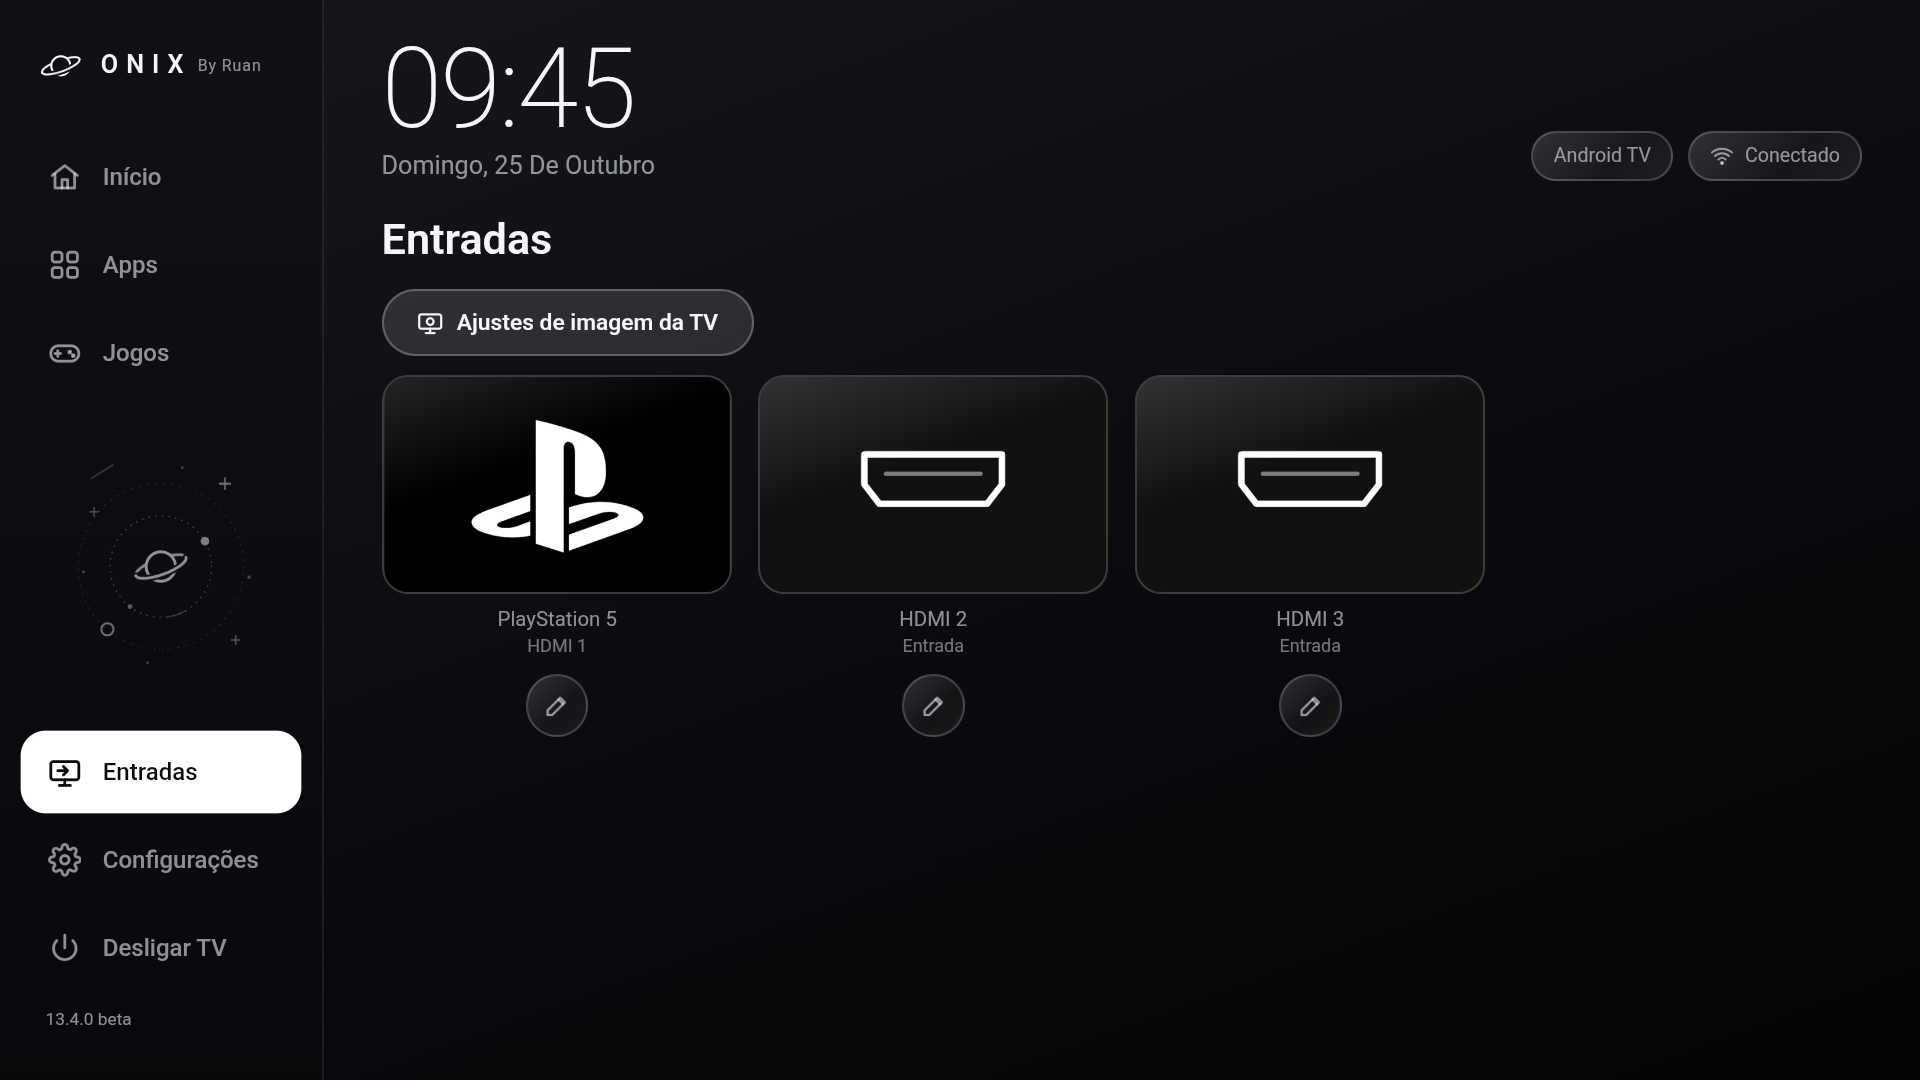
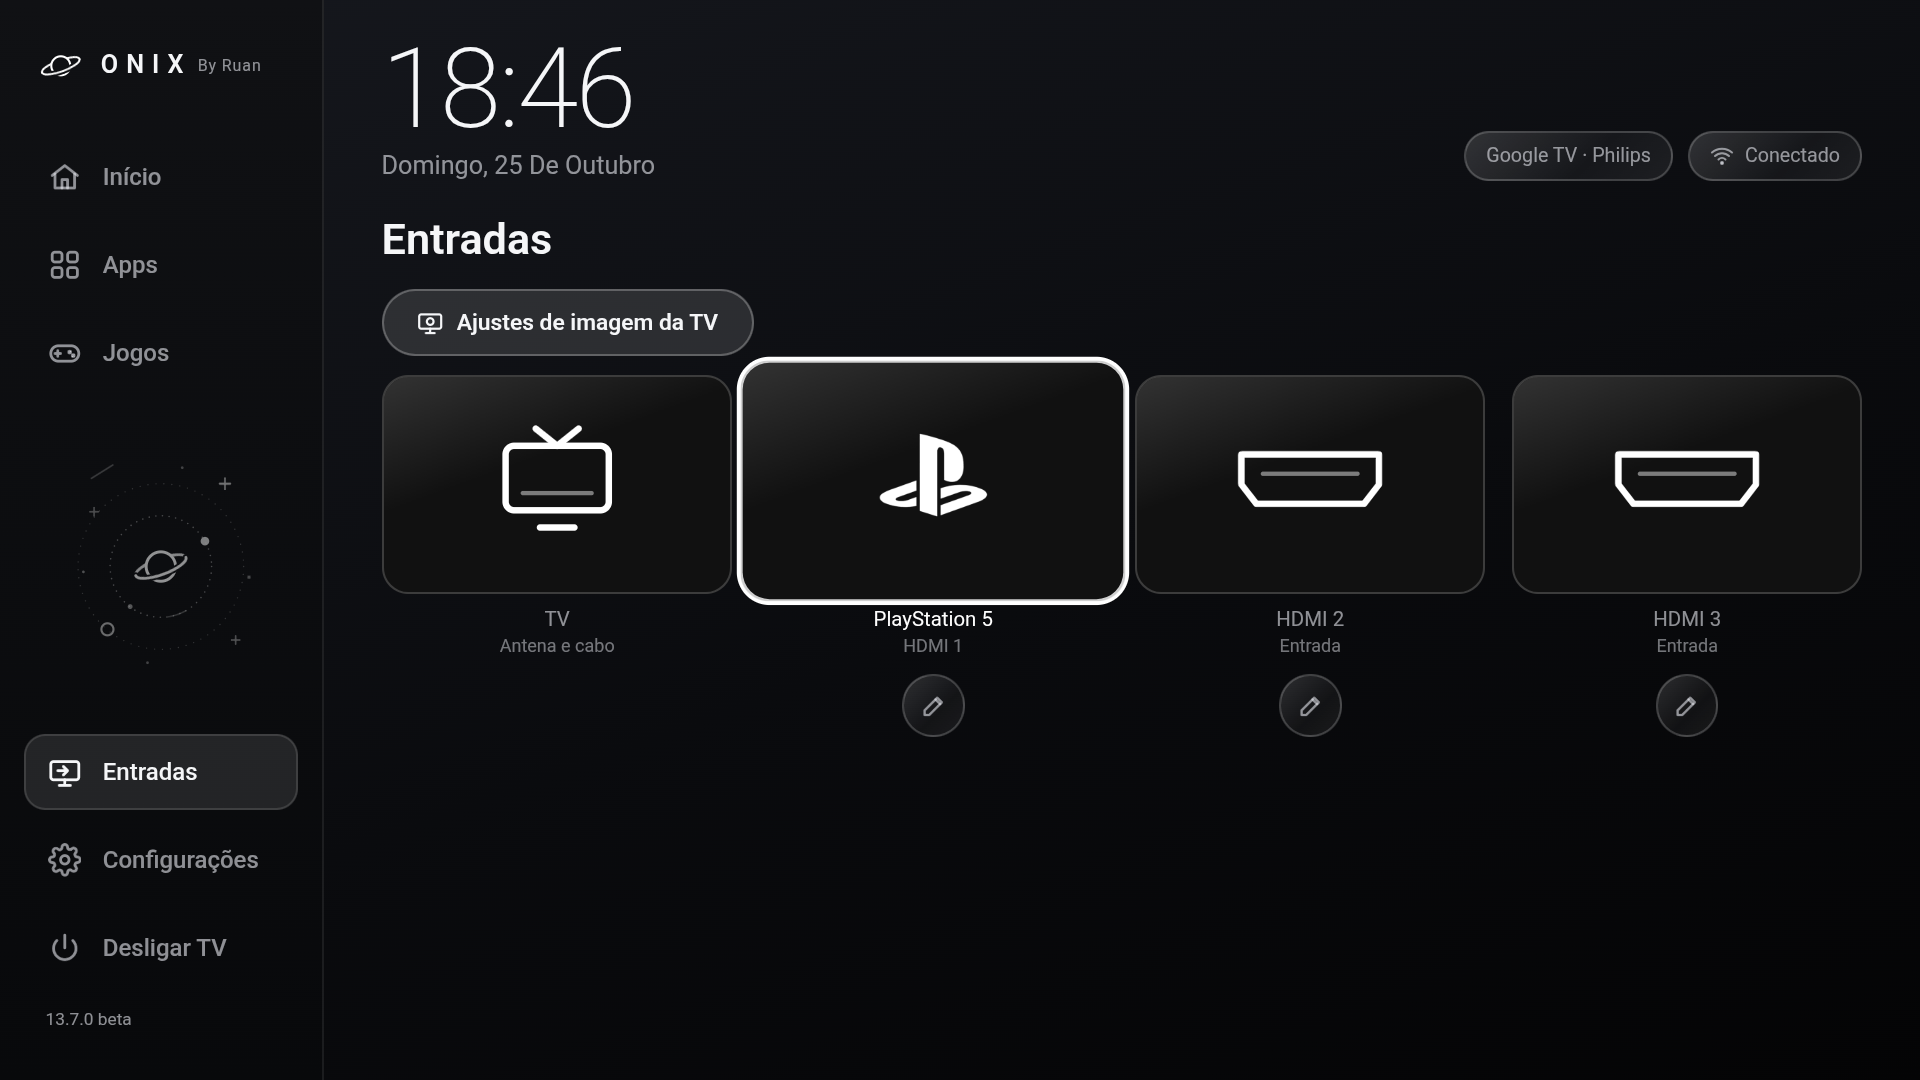
README: capturas de tela novas da 13.7.0
Tiradas na Philips Google TV: Início, Apps (recentes e não usados),
Jogos e notícias, leitor de notícias, Entradas, Configurações com as
animações, Novidades com etiquetas e o gatinho do cartão Sobre.

diff --git a/README.md b/README.md
@@ -115,8 +115,25 @@ Quatro jogos feitos para o controle remoto, com música chiptune e recorde salvo
 
 ## Capturas de tela
 
-| Jogos e notícias | Leitor de notícias |
+*Tiradas numa Philips Google TV com o Onix 13.7.0.*
+
+| Apps: recentes e não usados | Jogos e notícias |
 |---|---|
+| <img src="docs/screenshots/apps.png" alt="Aba Apps com Recentes e Não usados"> | <img src="docs/screenshots/jogos.png" alt="Jogos e notícias dos games"> |
+
+| Leitor de notícias | Entradas (TV e HDMI) |
+|---|---|
+| <img src="docs/screenshots/noticia.png" alt="Leitor de notícias com QR code"> | <img src="docs/screenshots/entradas.png" alt="Entradas TV e HDMI com banners"> |
+
+| Configurações e animações | Novidades |
+|---|---|
+| <img src="docs/screenshots/config.png" alt="Configurações do Onix com as opções de animação"> | <img src="docs/screenshots/novidades.png" alt="Tela Novidades com etiquetas Novo, Correção e Bug"> |
+
+| E um segredo no cartão Sobre 🐾 |
+|---|
+| <img src="docs/screenshots/gatinho.png" alt="Gatinho do Onix, o easter egg do cartão Sobre" width="640"> |
+
+---|---|
 | <img src="docs/screenshots/jogos.png" alt="Jogos e notícias"> | <img src="docs/screenshots/noticia.png" alt="Leitor de notícias"> |
 
 | Entradas HDMI com banners |
